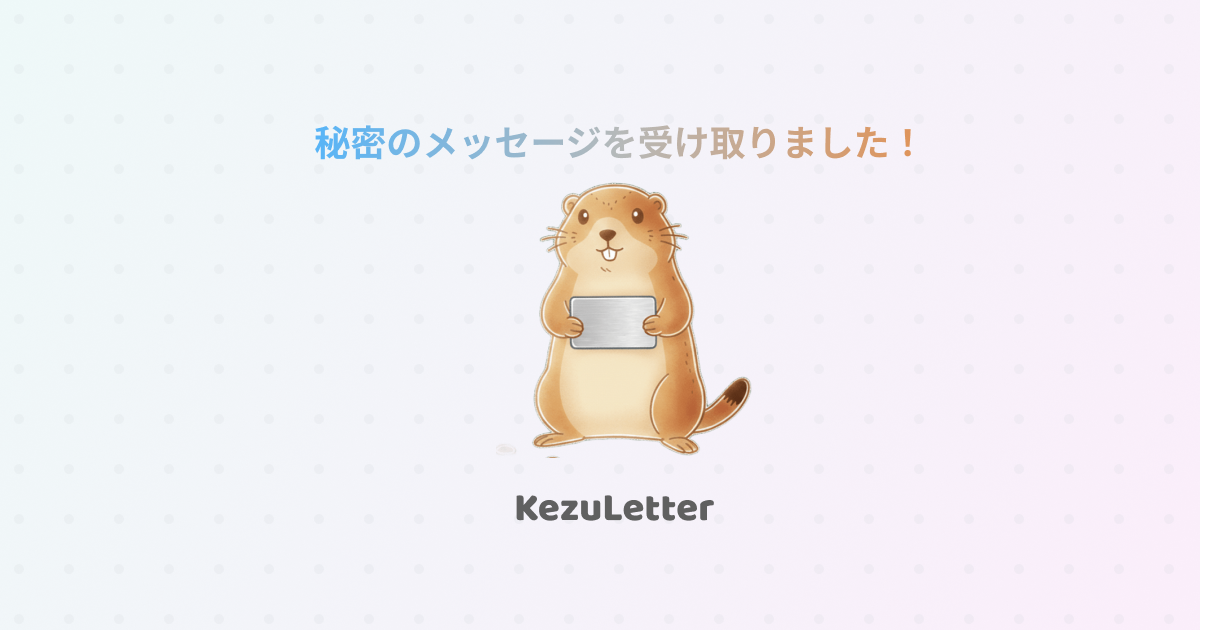
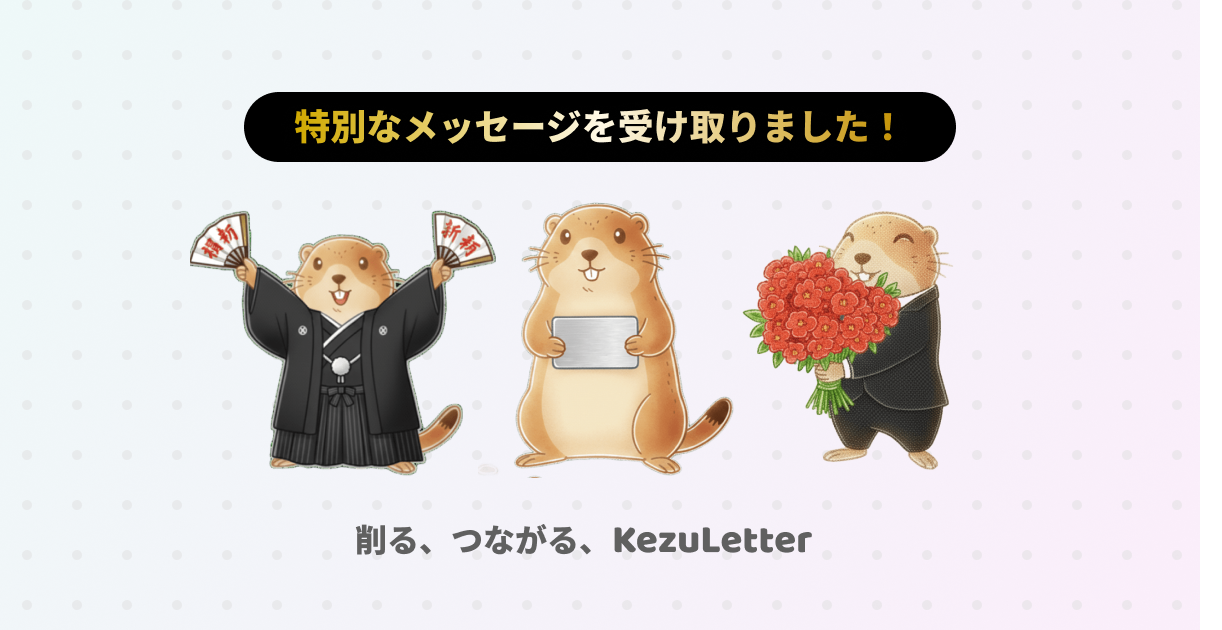
OGP: unify to static /images/ogp.png; remove dynamic metadata

Changed region(s): [[0.1524, 0.1206, 0.7924, 0.9048]]

diff --git a/src/app/open/layout.tsx b/src/app/open/layout.tsx
@@ -1,0 +1,24 @@
+import type { Metadata } from "next";
+import type { ReactNode } from "react";
+
+export const metadata: Metadata = {
+  title: "KezuLetter",
+  description: "プレーリードッグが届ける秘密のスクラッチレター",
+  openGraph: {
+    title: "KezuLetter",
+    description: "プレーリードッグが届ける秘密のスクラッチレター",
+    images: ["/images/ogp.png"],
+    siteName: "KezuLetter",
+    type: "website",
+  },
+  twitter: {
+    card: "summary_large_image",
+    title: "KezuLetter",
+    description: "プレーリードッグが届ける秘密のスクラッチレター",
+    images: ["/images/ogp.png"],
+  },
+};
+
+export default function OpenLayout({ children }: { children: ReactNode }) {
+  return <>{children}</>;
+}

diff --git a/src/app/page.tsx b/src/app/page.tsx
@@ -30,8 +30,7 @@ export default function CreatePage() {
         anniversaryDate: selectedSkin === 'anniversary' ? anniversaryDate : undefined,
       });
       const encrypted = encrypt(payload);
-      // OGP切り替え用にskinをクエリパラメータとして付与
-      const fullUrl = `${window.location.origin}/open?skin=${selectedSkin}#${encrypted}`;
+      const fullUrl = `${window.location.origin}/open#${encrypted}`;
       setUrl(fullUrl);
       setIsLoading(false);
     }, 8500);
